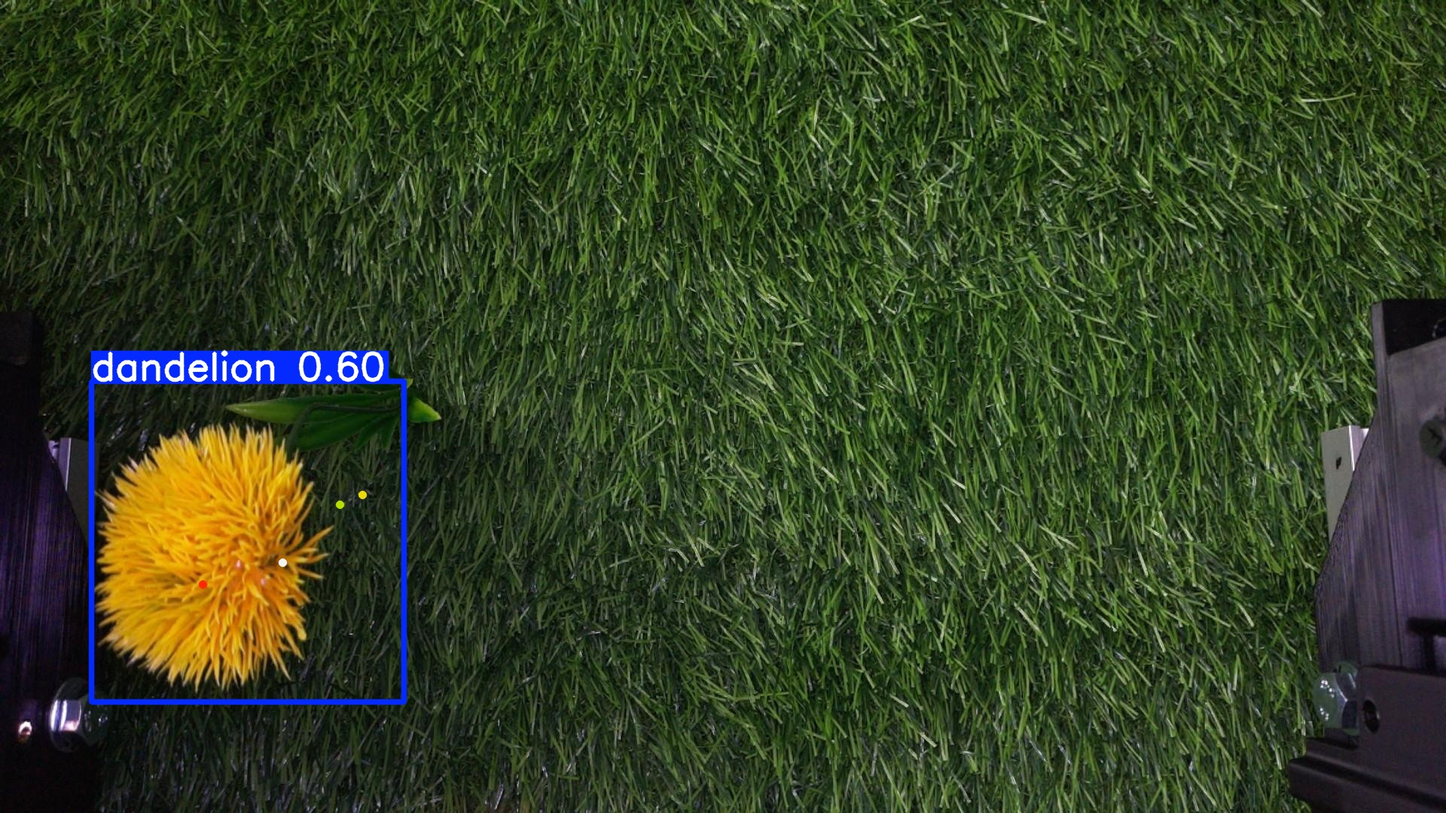
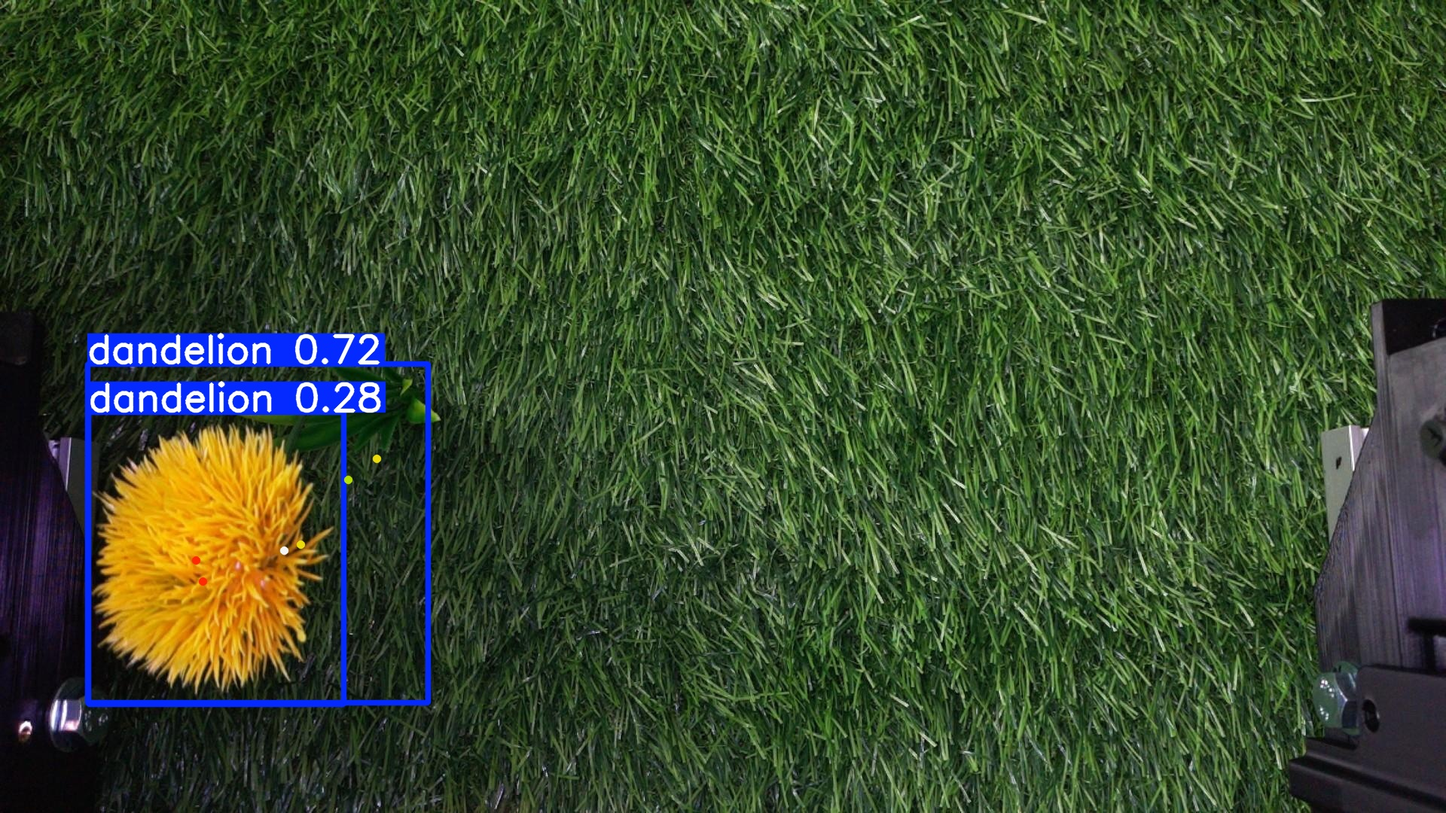
homography photo

diff --git a/src/decisions/decisions/test_scripts/model_eval.py b/src/decisions/decisions/test_scripts/model_eval.py
@@ -1,3 +1,5 @@
+#! /mnt/shared/weedy_ros/src/decisions/decisions/venv/bin/python3
+
 from ultralytics import YOLO
 from pi5neo import Pi5Neo
 import requests
@@ -6,6 +8,7 @@ from io import BytesIO
 import time
 import numpy as np
 import csv
+import math
 
 
 
@@ -15,6 +18,14 @@ models = {
     "indoor_all": "/mnt/shared/weedy_ros/src/decisions/decisions/models/indoor_all_ncnn_model",
     "indoor_indoor": "/mnt/shared/weedy_ros/src/decisions/decisions/models/indoor_indoor_ncnn_model",
 }
+
+def init_picture():
+    neo.fill_strip(int(255 * a), int(255 * a), int(255 * a))
+    neo.update_strip()
+
+    time.sleep(3)
+
+    get_image()
 
 def get_image():
     try:
@@ -35,12 +46,7 @@ def euclidean_distance(point1, point2):
     return np.linalg.norm(np.array(point1) - np.array(point2))
 
 
-url = "http://localhost:8000"
-neo = Pi5Neo('/dev/spidev0.0', 16, 800)
-a = 0.5
 
-actual_base = (368, 365)
-test_name = "set2/test1"
 
 def main():
     print()
@@ -53,7 +59,7 @@ def main():
     # Wait for light to turn on
     time.sleep(3)
 
-    results_data = {model_name: {"distances": [], "confidences": []} for model_name in models}
+    results_data = {model_name: {"distances": [], "confidences": [], "box_conf": [], "point": []} for model_name in models}
 
     # Load models
     loaded_models = {model_name: YOLO(model_path, task="pose", verbose=False) for model_name, model_path in models.items()}
@@ -73,6 +79,7 @@ def main():
             if len(result) == 0:
                 results_data[model_name]["distances"].append(1080)
                 results_data[model_name]["confidences"].append(0)
+                results_data[model_name]["box_conf"].append(0)
             else:
                 # Filter by box confidence
                 # confidence_threshold = 0.6
@@ -85,22 +92,28 @@ def main():
                 # Calculate distances and confidences
                 best_distance = 1080
                 best_confidence = 0
-                for kp in result.keypoints:
+                best_box_conf = 0
+                point = -1
+                for i, kp in enumerate(result.keypoints):
                     if not kp.has_visible:
                         continue
 
                     keypoints = list(zip(["flower", "base", "upper", "lower"], kp.data[0]))
                     keypoints = sorted(keypoints, key=lambda x: ["base", "lower", "upper", "flower"].index(x[0]))
-                    for name, tensor in keypoints:
+                    for j, (name, tensor) in enumerate(keypoints):
                         if all(tensor.numpy() != 0):
-                            distance = euclidean_distance(actual_base, (tensor[0], tensor[1]))
+                            distance = math.sqrt((tensor[0] - actual_base[0]) ** 2 + (tensor[1] - actual_base[1]) ** 2)
                             confidence = tensor[2]
-                            if confidence > best_confidence:
+                            if distance < best_distance:
                                 best_distance = distance
                                 best_confidence = confidence
-                            break
+                                best_box_conf = result.boxes.conf[i]
+                                point = j
+
                 results_data[model_name]["distances"].append(best_distance)
                 results_data[model_name]["confidences"].append(best_confidence)
+                results_data[model_name]["box_conf"].append(best_box_conf)
+                results_data[model_name]["point"].append(point)
 
     # Calculate and print averages
     for model_name in models:
@@ -108,16 +121,20 @@ def main():
         print(f"Results for {model_name}:")
         average_distance = np.mean(results_data[model_name]["distances"])
         average_confidence = np.mean(results_data[model_name]["confidences"])
+        average_box_conf = np.mean(results_data[model_name]["box_conf"])
+        average_point = np.mean(results_data[model_name]["point"])
         print(f"Average best Euclidean distance for {model_name}: {average_distance:.2f}")
         print(f"Average confidence for {model_name}: {average_confidence:.2f}")
+        print(f"Average box confidence for {model_name}: {average_box_conf:.2f}")
+        print(f"Average point for {model_name}: {average_point:.2f}")
 
-        results_data[model_name] = [average_distance, average_confidence]
+        results_data[model_name] = [average_distance, average_confidence, average_box_conf, average_point]
 
     # Save data to CSV
     csv_path = f"/mnt/shared/weedy_ros/src/decisions/decisions/test_scripts/eval/{test_name}/results.csv"
     with open(csv_path, mode='w', newline='') as file:
         writer = csv.writer(file)
-        writer.writerow(["Model Name", "Average Euclidean Distance", "Average Confidence"])
+        writer.writerow(["Model Name", "Average Euclidean Distance (Pixels)", "Average Point Confidence", "Average Box Confidence", "Average Point"])
         for model_name, data in results_data.items():
             writer.writerow([model_name] + data)
     print(f"Results saved to {csv_path}")
@@ -126,7 +143,17 @@ def cleanup():
     neo.clear_strip()
     neo.update_strip()
 
+url = "http://localhost:8000"
+neo = Pi5Neo('/dev/spidev0.0', 16, 800)
+a = 1.0
+
+actual_base = (658, 325)
+test_name = "set2/test_"
+
 if __name__ == "__main__":
 
-    main()
+    # main()
+
+    init_picture()
+
     cleanup()

diff --git a/src/decisions/decisions/teleop.py b/src/decisions/decisions/teleop.py
@@ -97,7 +97,7 @@ class TeleopNode(Node):
                     pass
                 elif button == 5: # Move
                     try:
-                        self.uart.send_command(1, 200)
+                        self.uart.send_command(1, 220)
                     except Exception as e:
                         self.get_logger().error(f"Error sending command: {e}")
 
